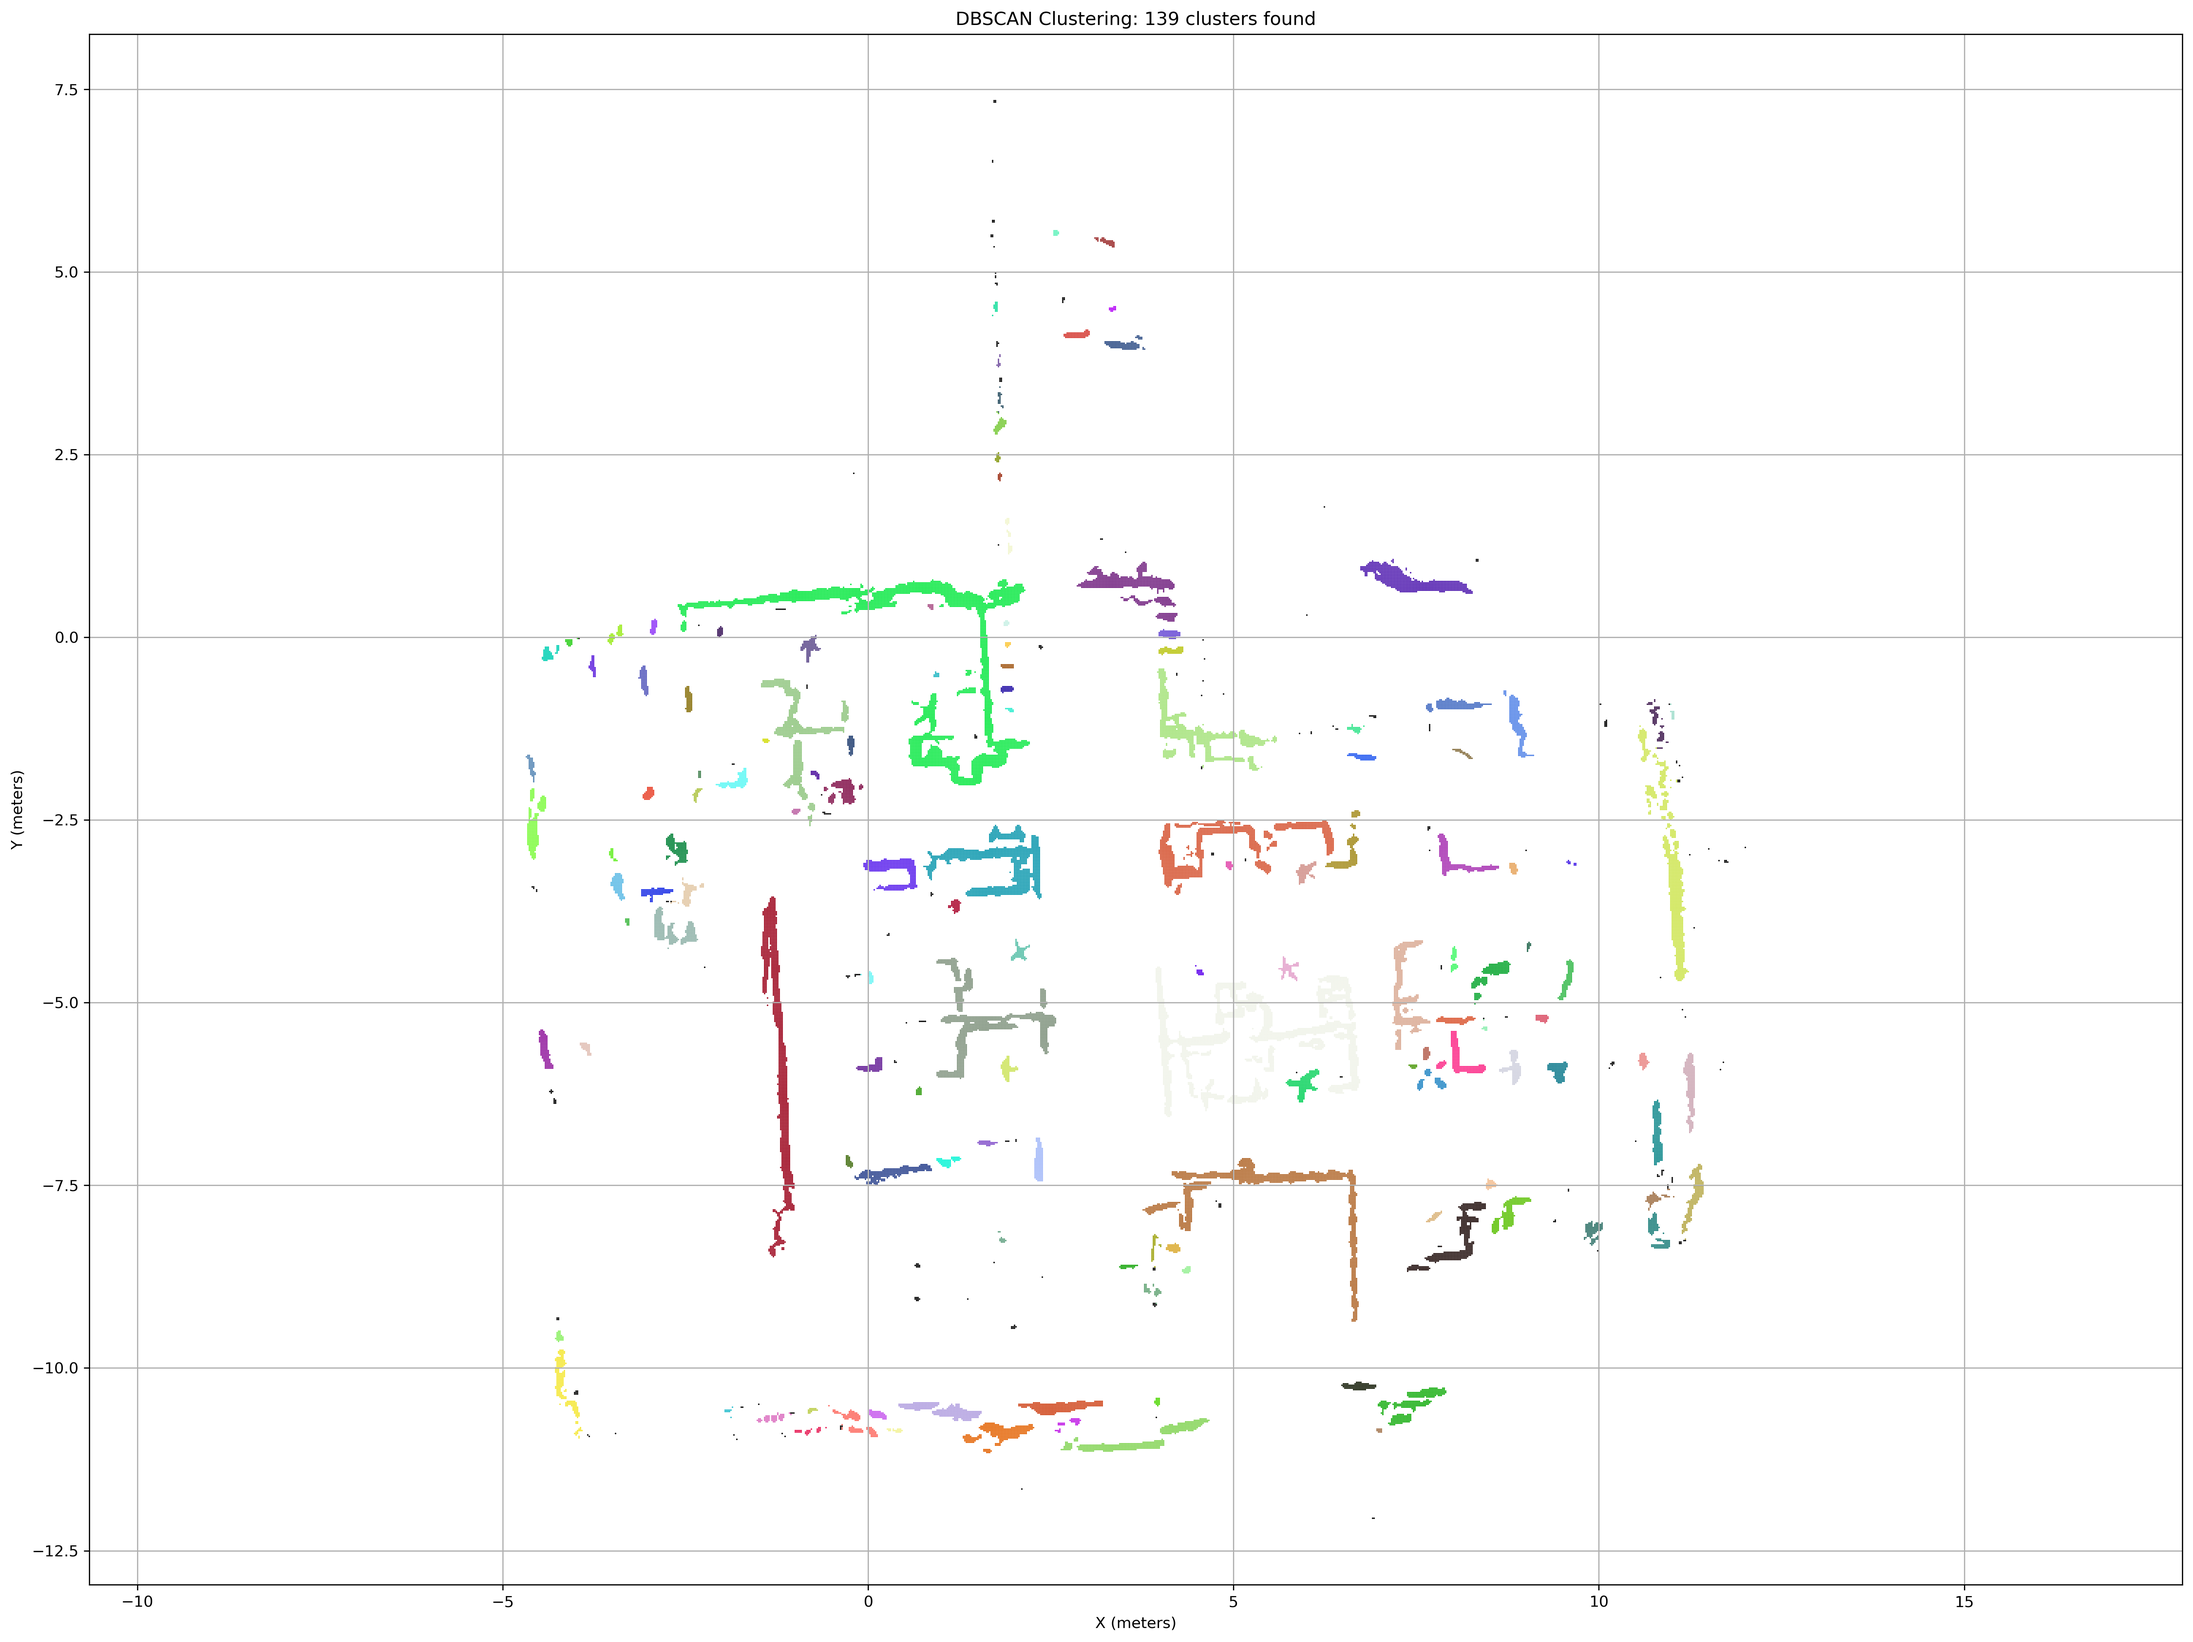
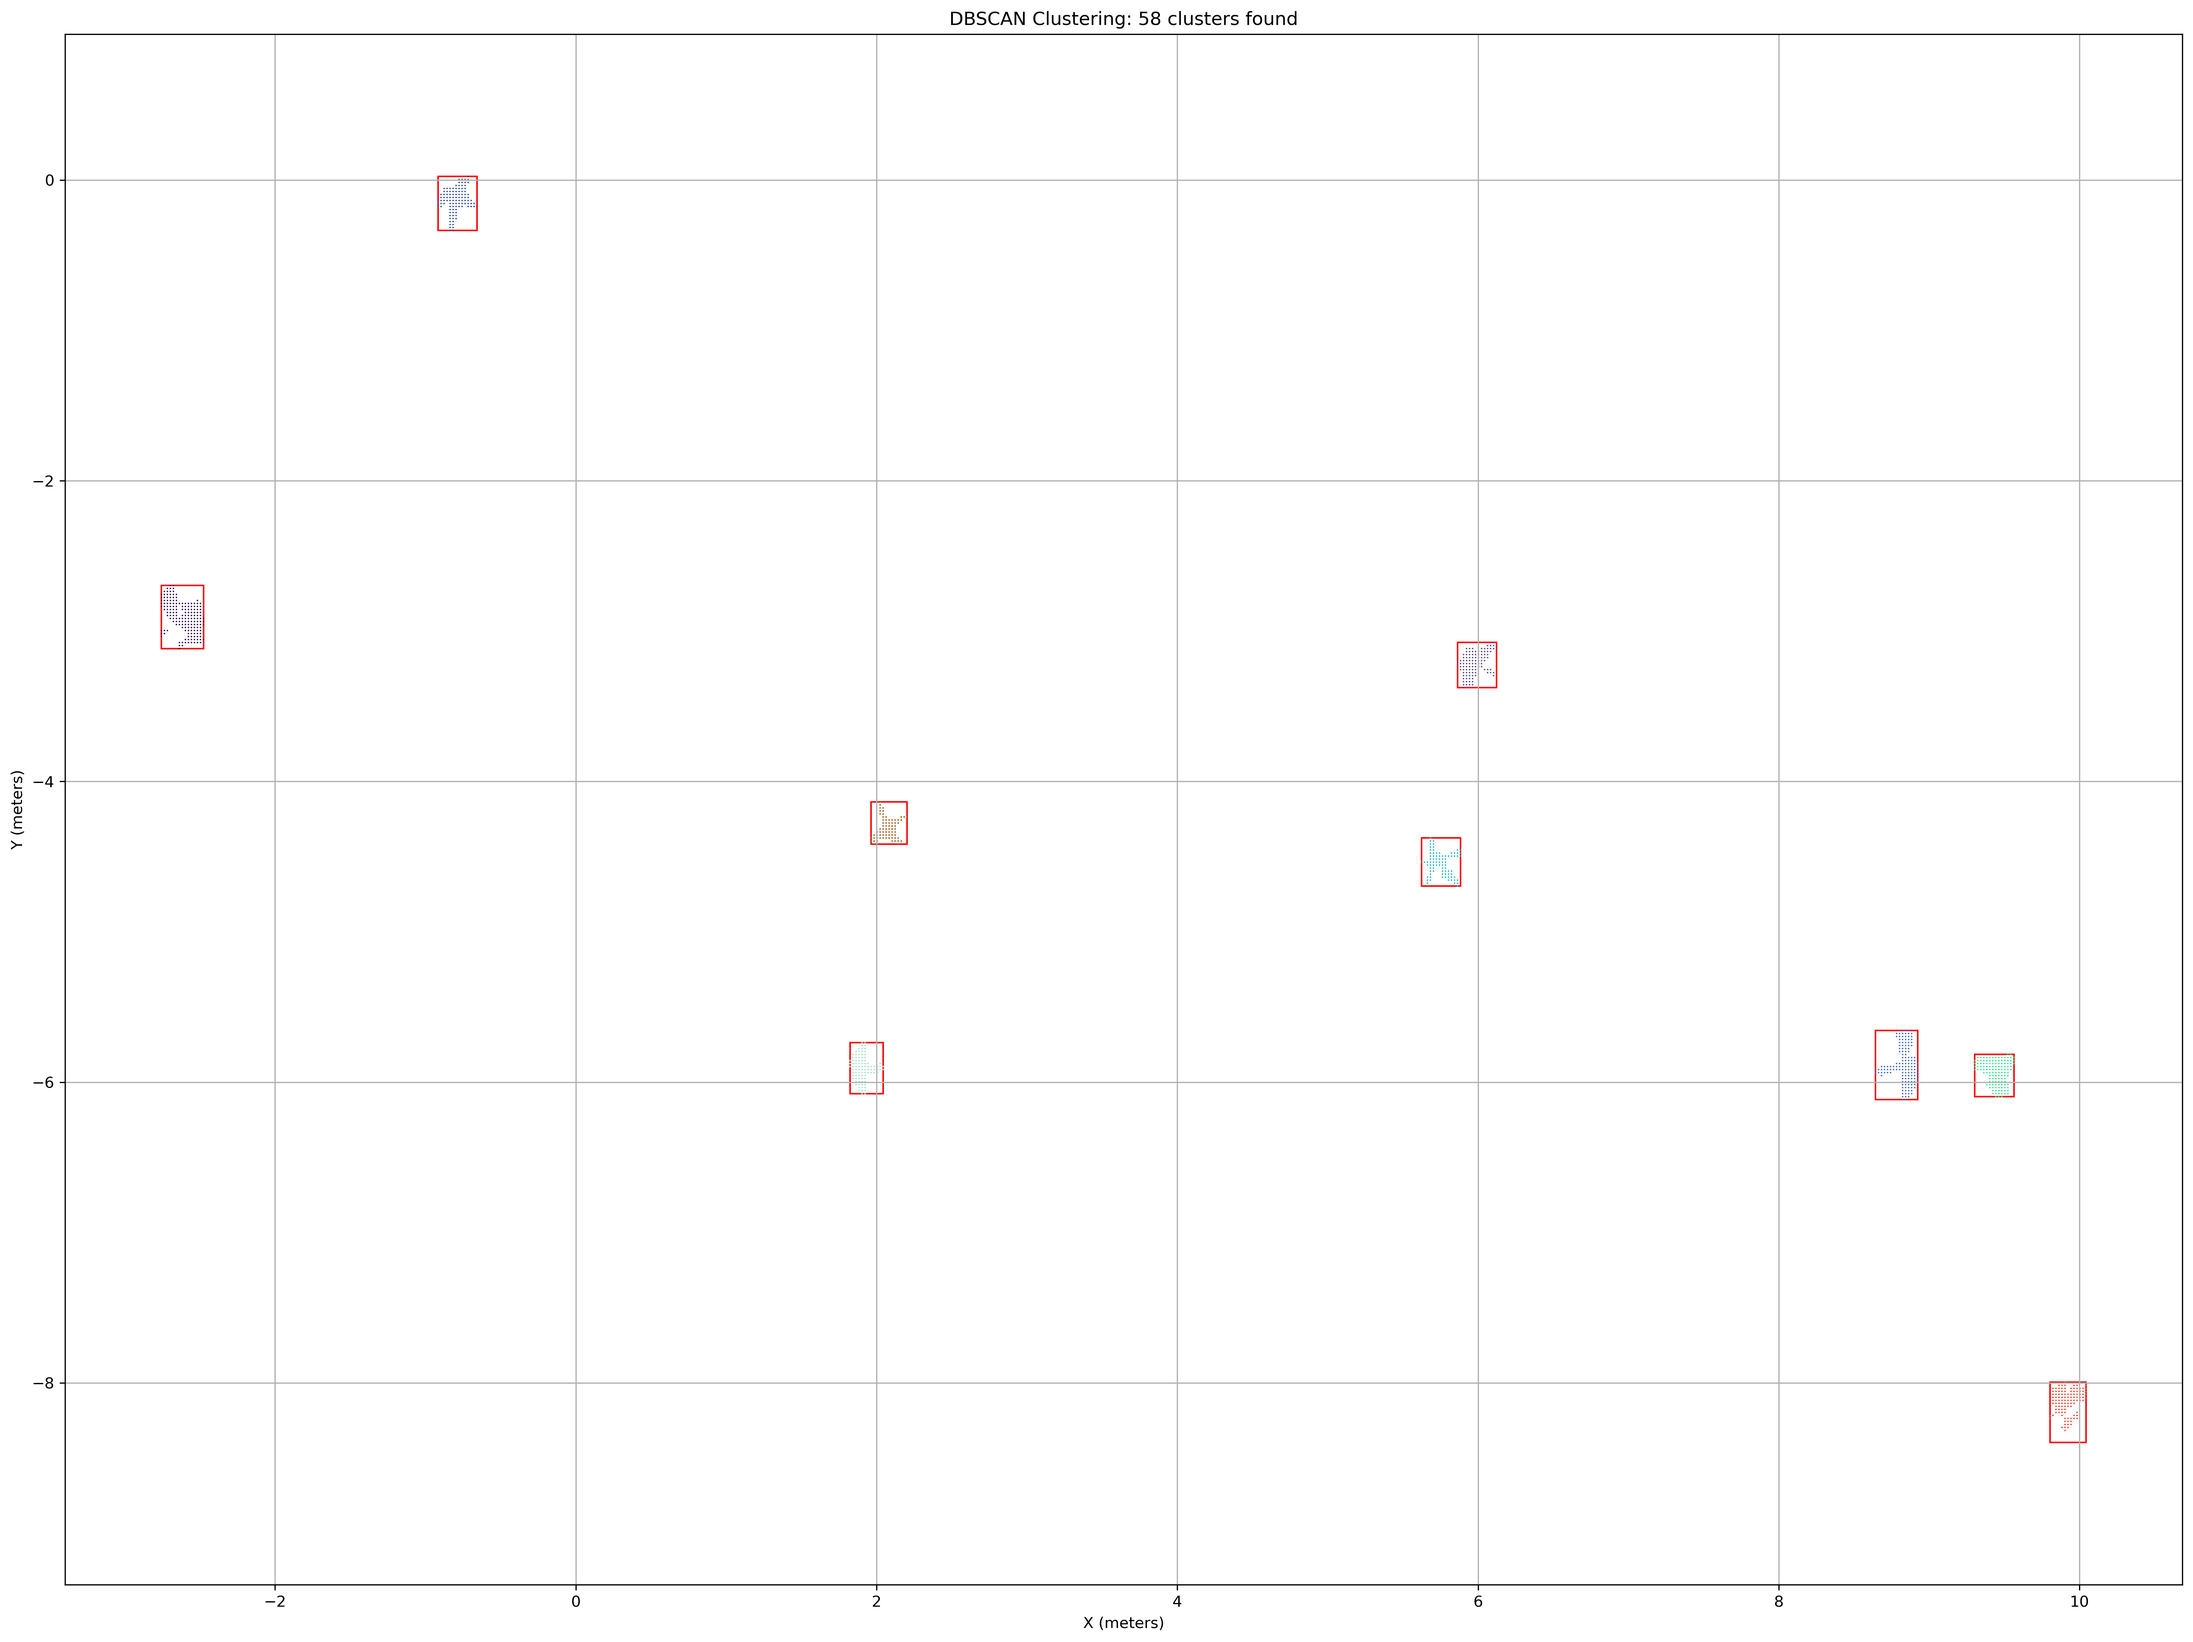
Add files via upload

diff --git a/maps/cluster.py b/maps/cluster.py
@@ -31,7 +31,7 @@ def run_dbscan_on_map(map_file, yaml_file):
     # Run DBSCAN
     # eps = maximum distance between two points to be in same cluster
     # min_samples = minimum points to form a cluster
-    dbscan = DBSCAN(eps=0.1, min_samples=10)
+    dbscan = DBSCAN(eps=0.2, min_samples=70)
     labels = dbscan.fit_predict(points)
     
     # Get number of clusters (excluding noise = -1)
@@ -71,13 +71,26 @@ def run_dbscan_on_map(map_file, yaml_file):
         # size filter
         if not (0 <= width <= 0.4 and 0 <= height <= 0.8):
             continue
-
+        
         mu = xy.mean(axis=0)
         U, S, Vt = np.linalg.svd(xy - mu, full_matrices=False)
         ratio = S[1] / S[0]
 
         if ratio < 0.5:
             continue  # line-like cluster
+
+        
+        plt.gca().add_patch(
+            plt.Rectangle(
+                (xmin, ymin),
+                width,
+                height,
+                fill=False,
+                edgecolor='red',
+                linewidth=1
+            )
+        )
+
 
         plt.scatter(xy[:, 0], xy[:, 1], 
                    c=[col], 
